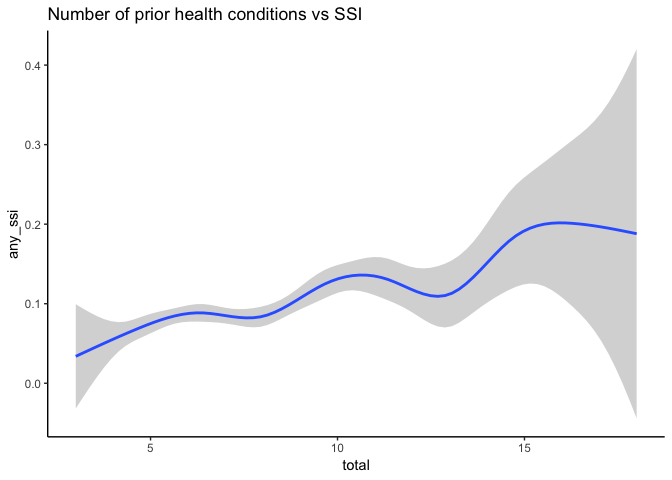
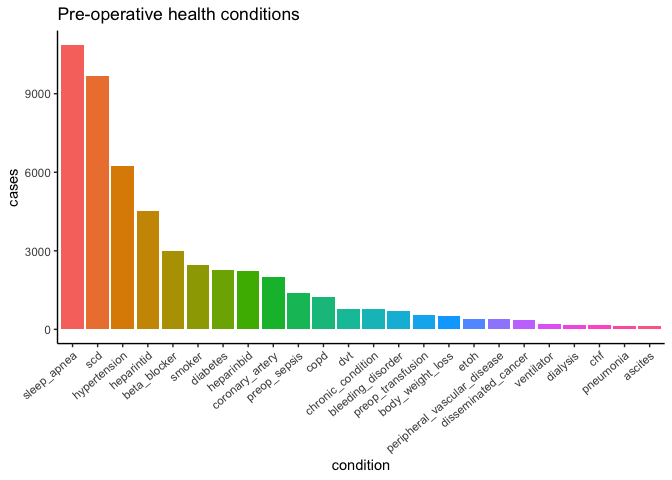
update tidy code

Changed region(s): [[0.0, 0.0, 1.0, 1.0]]

diff --git a/tiff_subanalysis.md b/tiff_subanalysis.md
@@ -29,55 +29,48 @@ condition.
 
 #### Understanding our dataset
 
+``` r
+healthdisease %>% group_by(any_ssi) %>% 
+  summarize(n = n()) %>% kable()
+```
+
+| any\_ssi |    n |
+| -------: | ---: |
+|        0 | 9931 |
+|        1 |  910 |
+|        2 |   27 |
+
 We’ll take a look at the number of cases for each health condition
 available in our dataset.
 
 ``` r
-dist_healthdisease = healthdisease %>% 
-  select(-postop_ssi_super, -postop_ssi_deep, -postop_ssi_organspace, 
-         -any_ssi, -death, -surgical_approach) %>% 
-  mutate(ascites = ifelse(ascites == 2, 1, 0),
-         preop_sepsis = ifelse(preop_sepsis == 1, 0, 1), 
-         sleep_apnea = ifelse(sleep_apnea == 0, 0, 1)) %>%
-  replace_na(list(dvt = 0, disseminated_cancer = 0, beta_blocker = 0, scd = 0,
-                  heparinbid = 0, heparintid = 0)) %>% 
-  rownames_to_column %>% 
-  gather(condition, value, -rowname) %>% 
-  spread(rowname, value) %>% 
-  mutate(cases = rowSums(.[2:10868])) %>% 
-  transform(condition = reorder(condition, -cases))
+dist_data = healthdisease %>% 
+  select(-any_ssi, -death) %>% 
+  gather(condition, key) %>% 
+  filter(key > 0) %>% 
+  group_by(condition) %>% 
+  summarize(cases = n()) %>% 
+  mutate(condition = reorder(condition, -cases))
 
-ggplot(dist_healthdisease, aes(x = condition, y = cases, fill = condition)) +
+ggplot(dist_data, aes(x = condition, y = cases, fill = condition)) +
   geom_bar(stat = "identity") + ggtitle("Pre-operative health conditions") +
-  theme_classic() + theme(axis.text.x = element_text(angle = 40, hjust = 1), legend.position="none") 
-```
-
-![](tiff_subanalysis_files/figure-gfm/unnamed-chunk-2-1.png)<!-- -->
-
-#### SSI outcome associated with the number of prior conditions
-
-In our dataset, we have SSI 0, 1, and 2, with 0 indicating no surgical
-site infection. We see a positive correlation between number of
-pre-operative health conditions and the resulting number of surgical
-site infection.
-
-``` r
-num_health = healthdisease %>% 
-  select(-postop_ssi_super, -postop_ssi_deep, -postop_ssi_organspace, -death) %>%
-  mutate(total = pmap_dbl(select(., -any_ssi, -surgical_approach), sum))
-
-ggplot(num_health, aes(x = total, y = any_ssi)) + geom_smooth() + 
-  theme_classic() + ggtitle("Number of prior health conditions vs SSI")
+  theme_classic() + theme(axis.text.x = element_text(angle = 40, hjust = 1), legend.position = "none") 
 ```
 
 ![](tiff_subanalysis_files/figure-gfm/unnamed-chunk-3-1.png)<!-- -->
 
 #### SSI and death association to each health condition
 
+Comparing number of death and SSI cases side by side with each health
+condition, we see a nearly symmetric heatmap. There are fewer cases
+under patients that actually got SSI or died from the operation, so it
+is difficult to conclude any direct relationship between health
+condition and surgery outcome. We can see that there are a great number
+of successful cases for patients with sleep apnea, specific carbohydrate
+diet, and hypertension.
+
 ``` r
 heatplot = healthdisease %>% 
-  select(-postop_ssi_super, -postop_ssi_deep, -postop_ssi_organspace, 
-         -surgical_approach) %>%
   mutate(death = recode(death, `3` = "No death", `1` = "Died intraop", 
                         `2` = "Died within 30 days postop"),
          any_ssi = recode(any_ssi, `0` = "0 SSI", `1` = "1 SSI", `2` = "2 SSI")) %>%
@@ -88,7 +81,13 @@ heatplot = healthdisease %>%
   summarise(score = sum(score)) 
 
 ggplot(heatplot, mapping = aes(x = status, y = condition, fill = score)) + 
-  geom_tile() + scale_fill_viridis() + theme_classic()
+  geom_tile() + scale_fill_distiller(palette = "RdYlBu") + theme_classic()
 ```
 
 ![](tiff_subanalysis_files/figure-gfm/unnamed-chunk-4-1.png)<!-- -->
+
+We can’t make any conclusions regarding sugery success in relation to
+pre-operation health conditions because there are only few cases of SSI
+\> 0 as well as the number of death occurence. It is clear that the
+greater number of pre-operative health condition a patient has, the more
+likely it is for SSI to occur.
